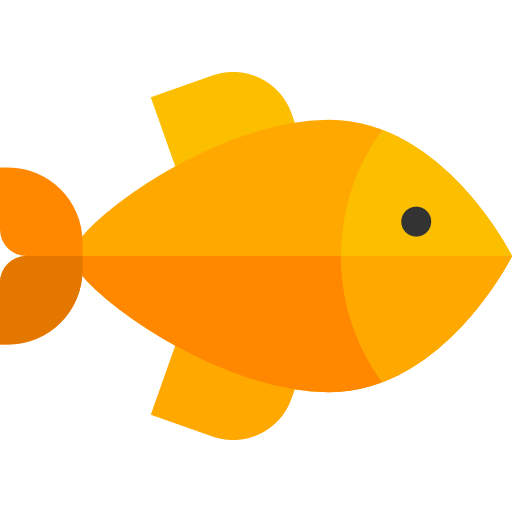
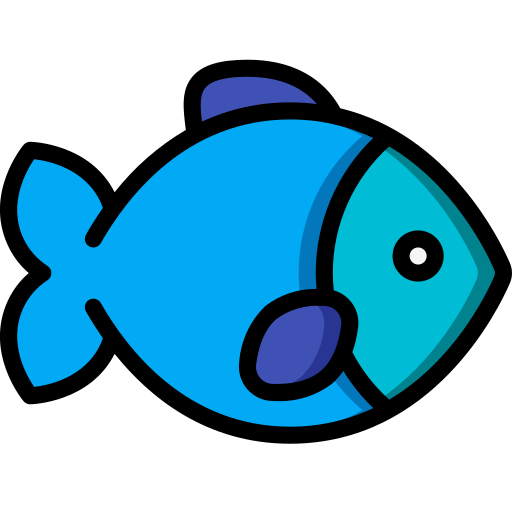
fish image fix

diff --git a/frontend-react/src/pages/MapPage.jsx b/frontend-react/src/pages/MapPage.jsx
@@ -1,7 +1,7 @@
 import { MapContainer, TileLayer, Marker } from 'react-leaflet'
 import "leaflet/dist/leaflet.css"
 import { Icon, popup } from 'leaflet';
-import fishIconImage from '../assets/fish2.png'
+import fishIconImage from '../assets/fish.png'
 
 
 function MapPage() {
